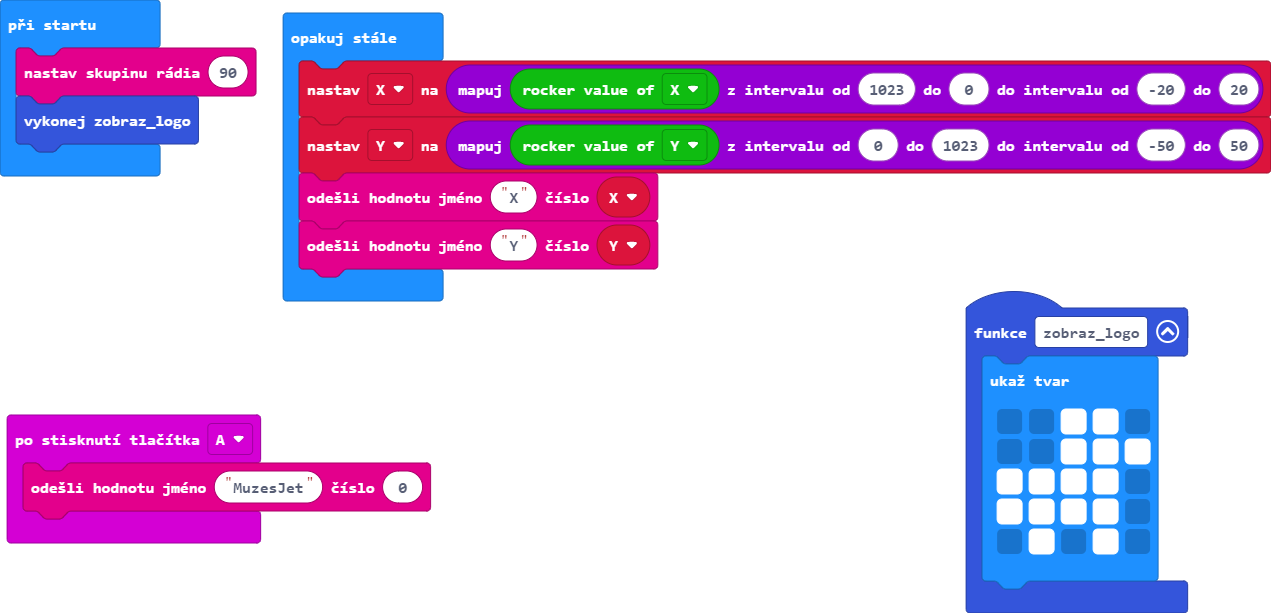
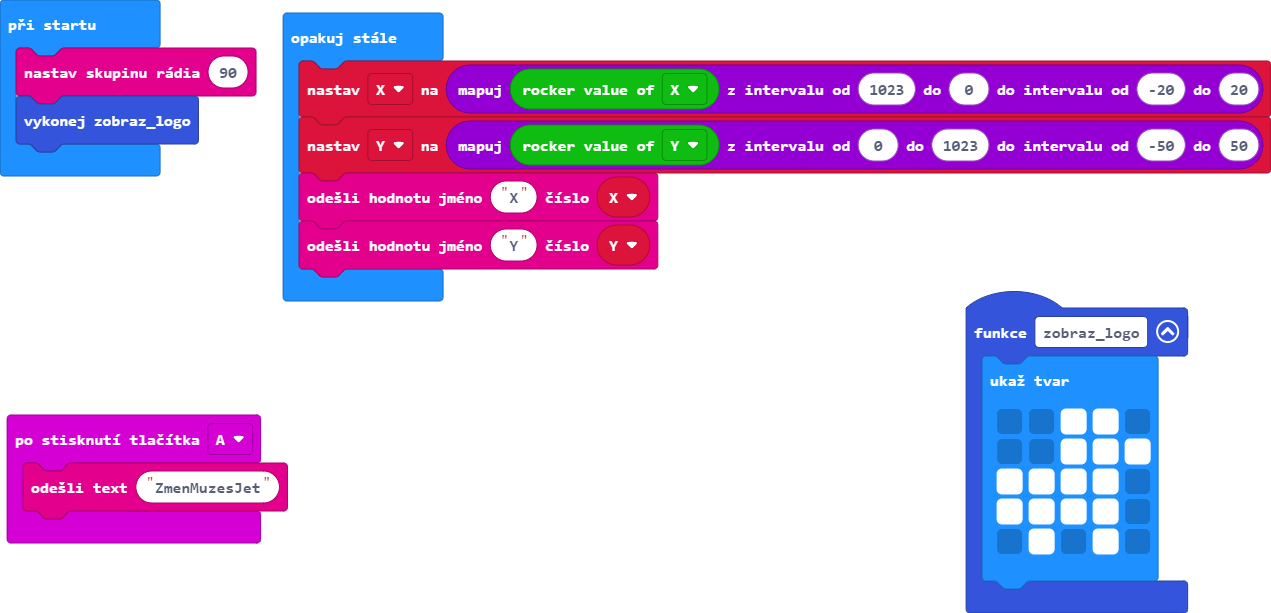
ZmenMuzesJet

Changed region(s): [[0.0614, 0.7439, 0.3375, 0.8369]]

diff --git a/main.ts b/main.ts
@@ -1,5 +1,5 @@
 input.onButtonPressed(Button.A, function () {
-    radio.sendValue("MuzesJet", 0)
+    radio.sendString("ZmenMuzesJet")
 })
 function zobraz_logo () {
     basic.showLeds(`
